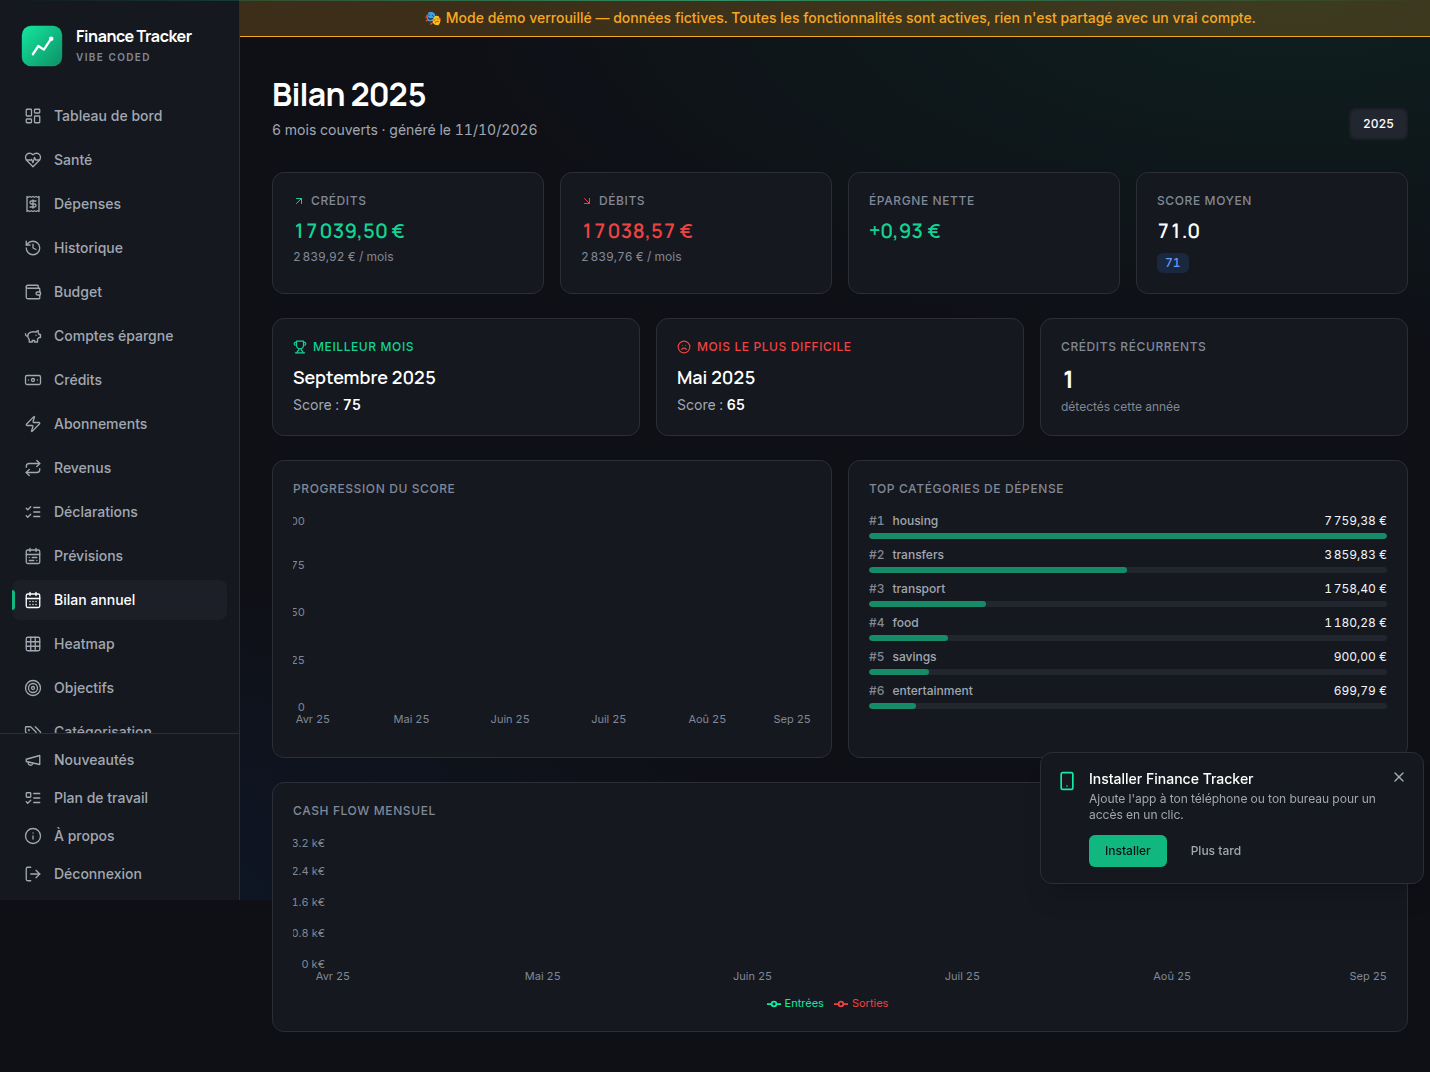
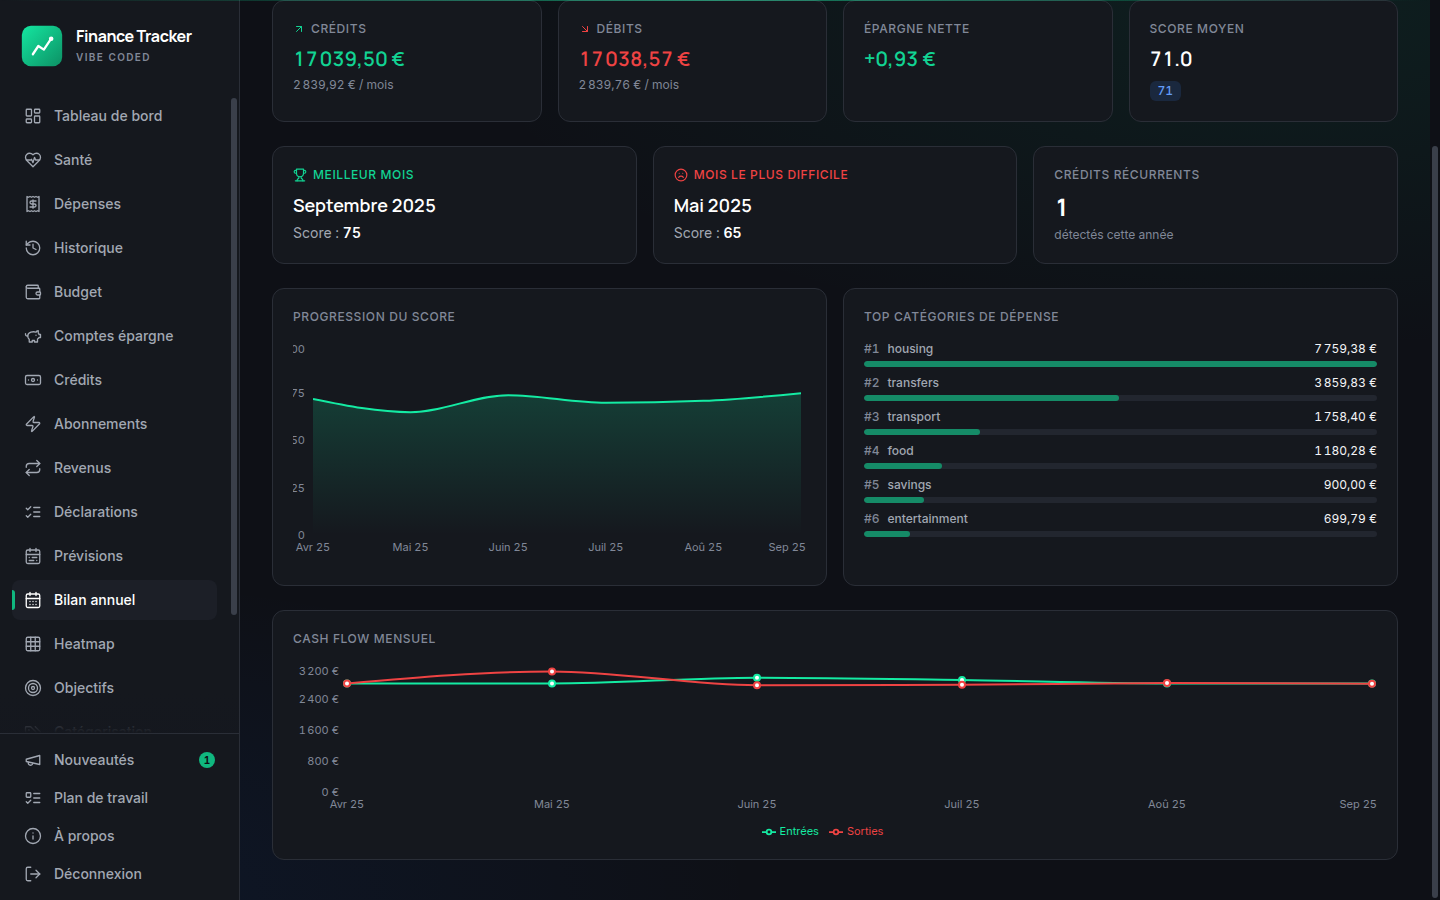
fix(L65): capture de la Nouveauté — courbes en euros tracées, sans fenêtre d'installation

diff --git a/frontend/public/nouveautes-data/index.html b/frontend/public/nouveautes-data/index.html
@@ -20,7 +20,7 @@ code { font-size: 13px; padding: 1px 4px; border-radius: 4px; background: var(--
 </style>
 </head>
 <body>
-<header><h1>finance-tracker — nouveautés</h1><p class="meta">Généré le 2026-10-11 17:18 par cadence</p></header>
+<header><h1>finance-tracker — nouveautés</h1><p class="meta">Généré le 2026-10-11 17:33 par cadence</p></header>
 <main>
 <article id="2026-10-11-bilan-annuel-le-graphique-de-tresorerie-montre-enfin-des-eur">
   <h2>Bilan annuel : le graphique de trésorerie montre enfin des euros</h2>
